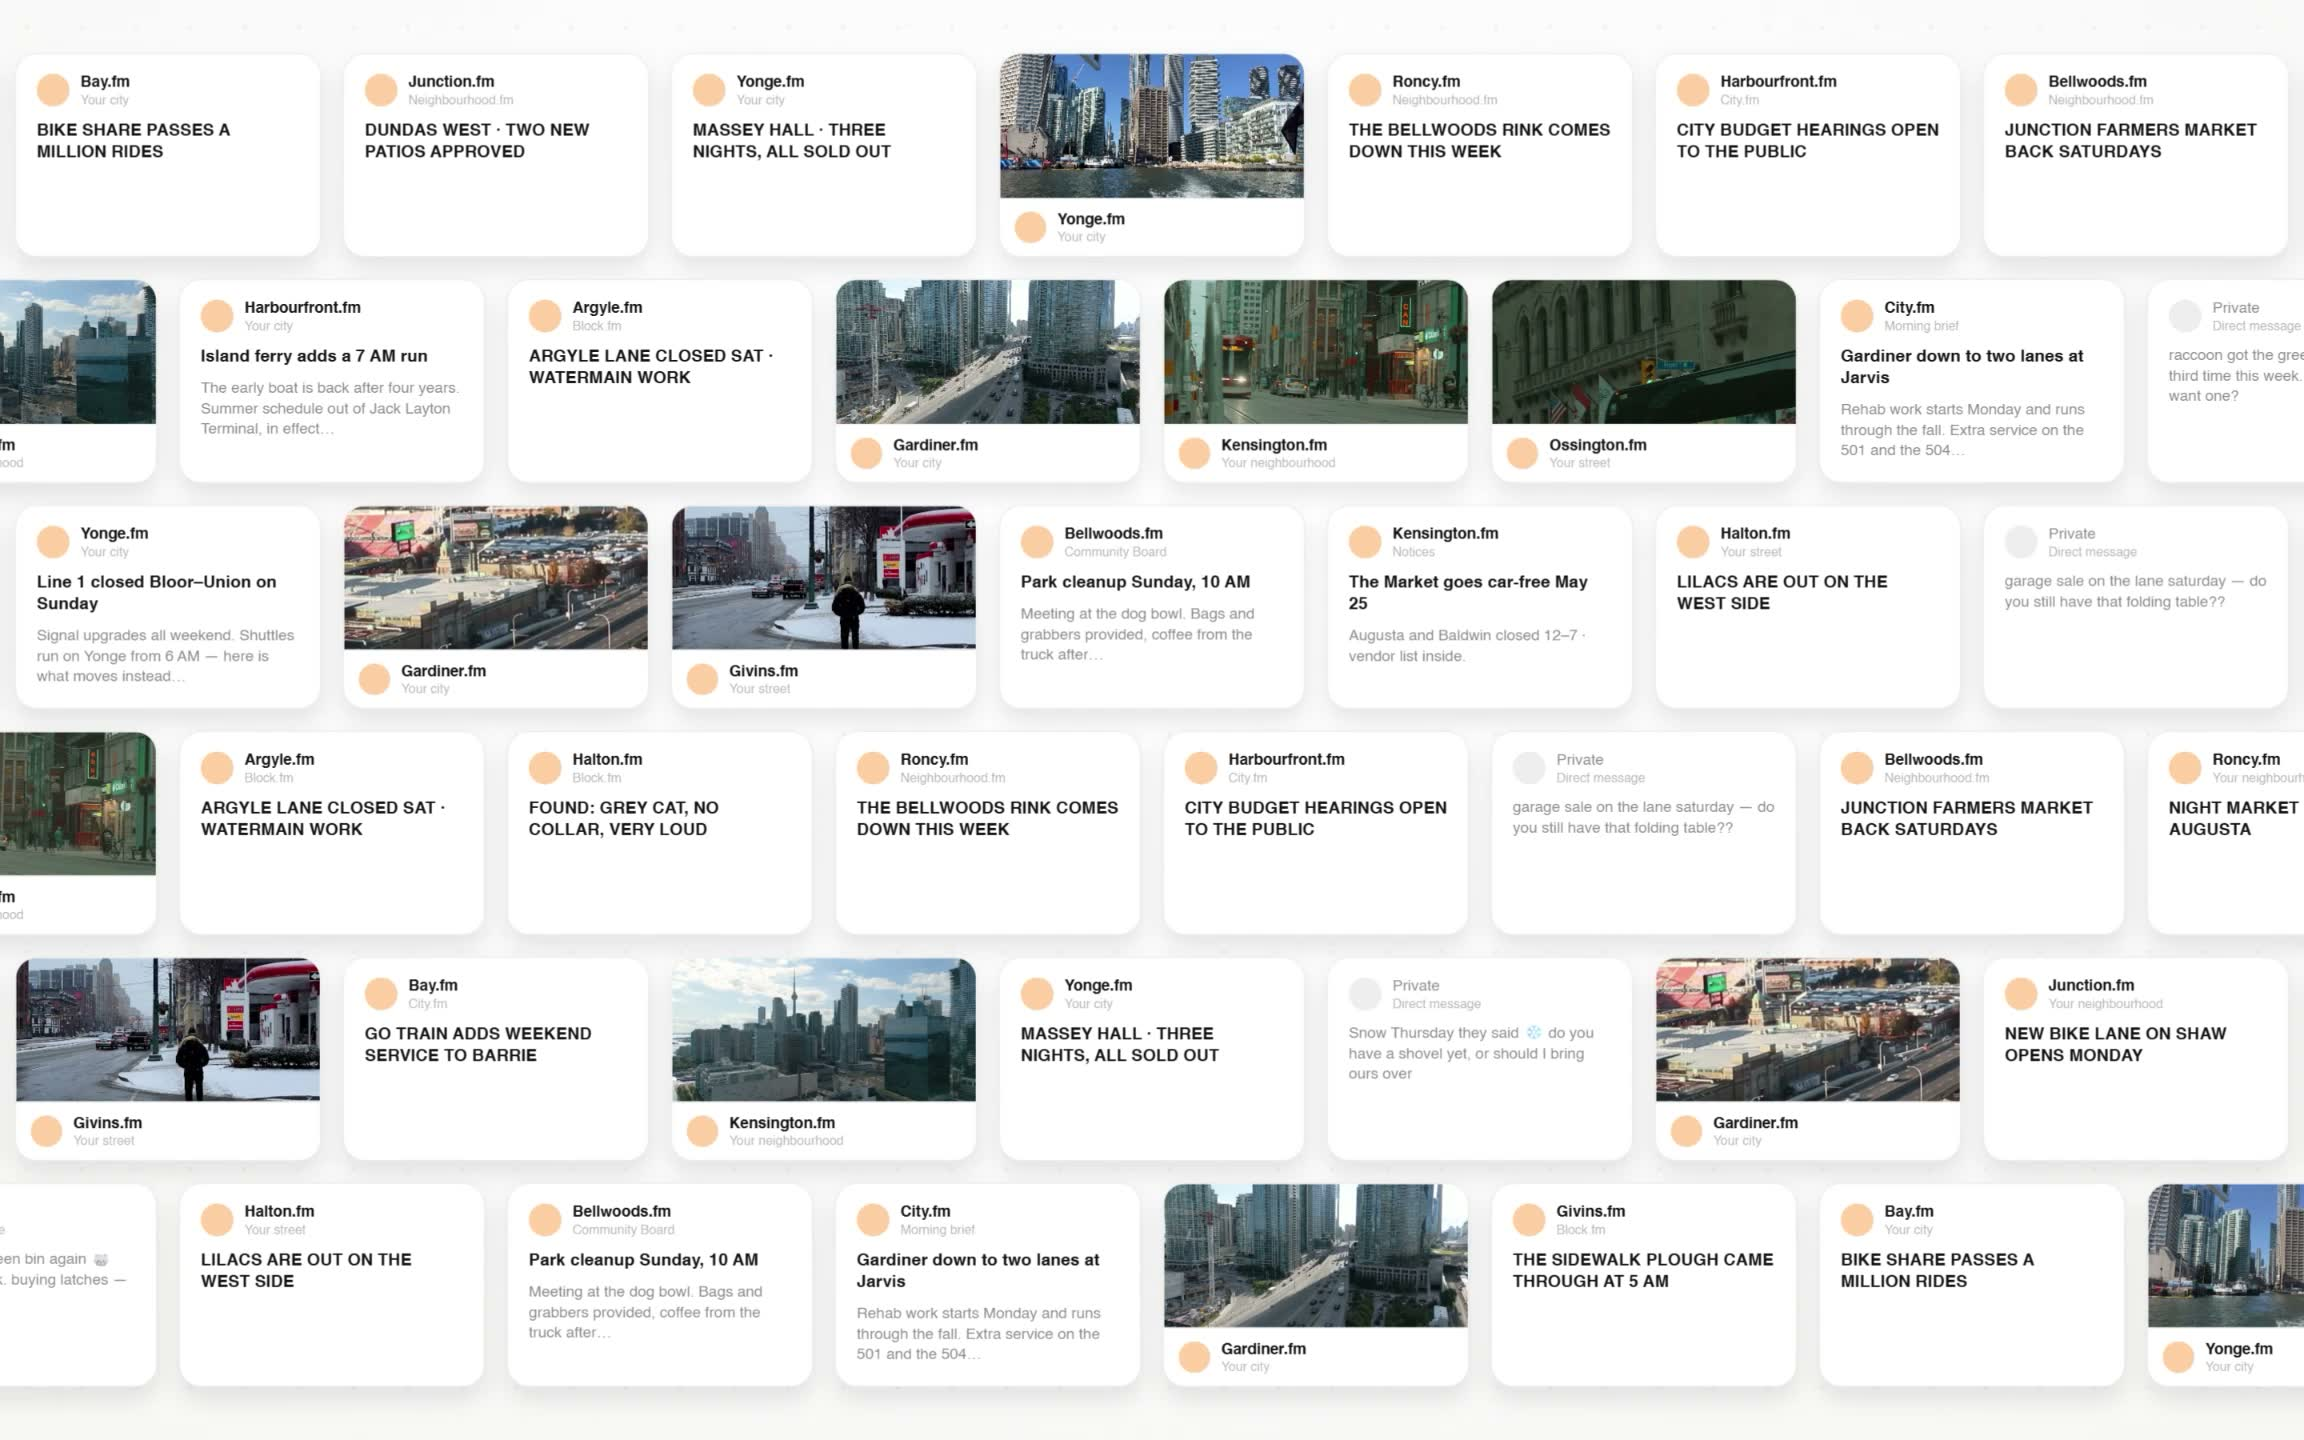
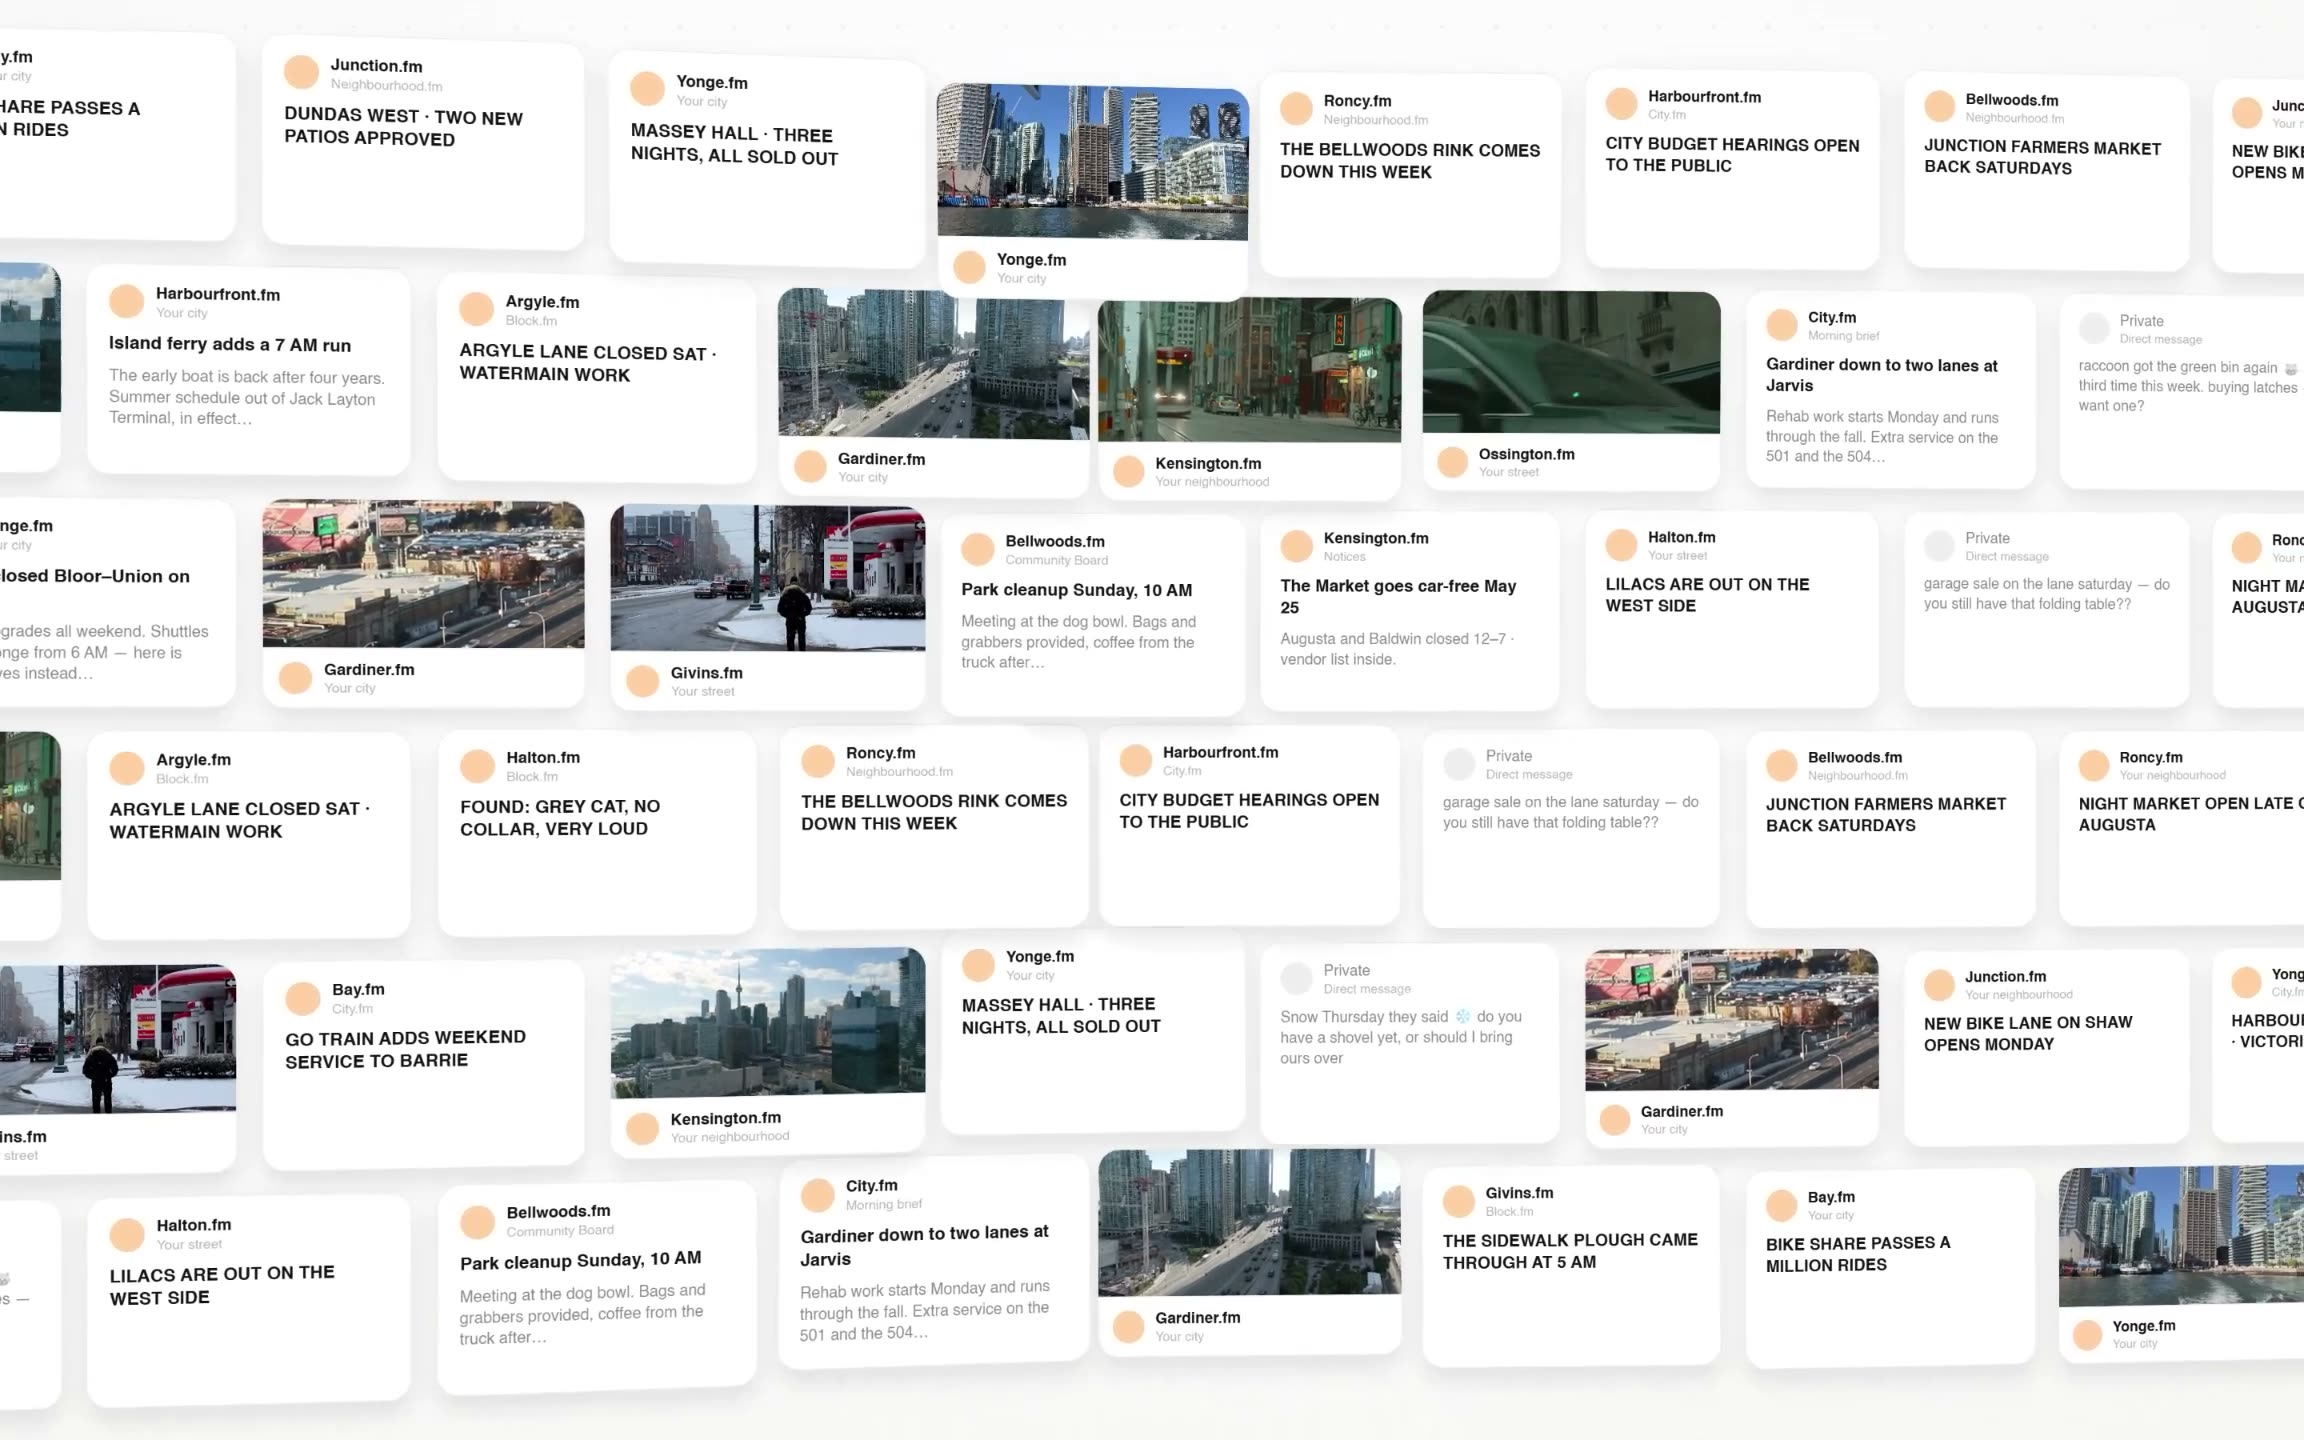
sdfer

diff --git a/ongenradio.html b/ongenradio.html
@@ -2019,7 +2019,7 @@ html{ -webkit-font-smoothing:antialiased; -moz-osx-font-smoothing:grayscale; }
   <div class="subsec">
     <div class="subsec-title">Confirmed Concept Direction</div>
     <div class="subsec-video wide">
-      <video class="snap-vid" src="./ongenconceptoverview.mp4?v=20260727" data-poster="./posters/ongenconceptoverview.jpg?v=20260727" loop muted playsinline preload="none"></video>
+      <video class="snap-vid" src="./ongenconceptoverview.mp4?v=20260727" data-poster="./posters/ongenconceptoverview.jpg?v=20260728" loop muted playsinline preload="none"></video>
     </div>
     <p class="phase-note">After the pre-pilot and the survey, I confirmed the direction. OnGen curates nearby local information and each user's interests, and for the interaction itself it uses the camera to map that content onto the real terrain, so the space around the user becomes the experience.</p>
     <ul class="build-list features">
